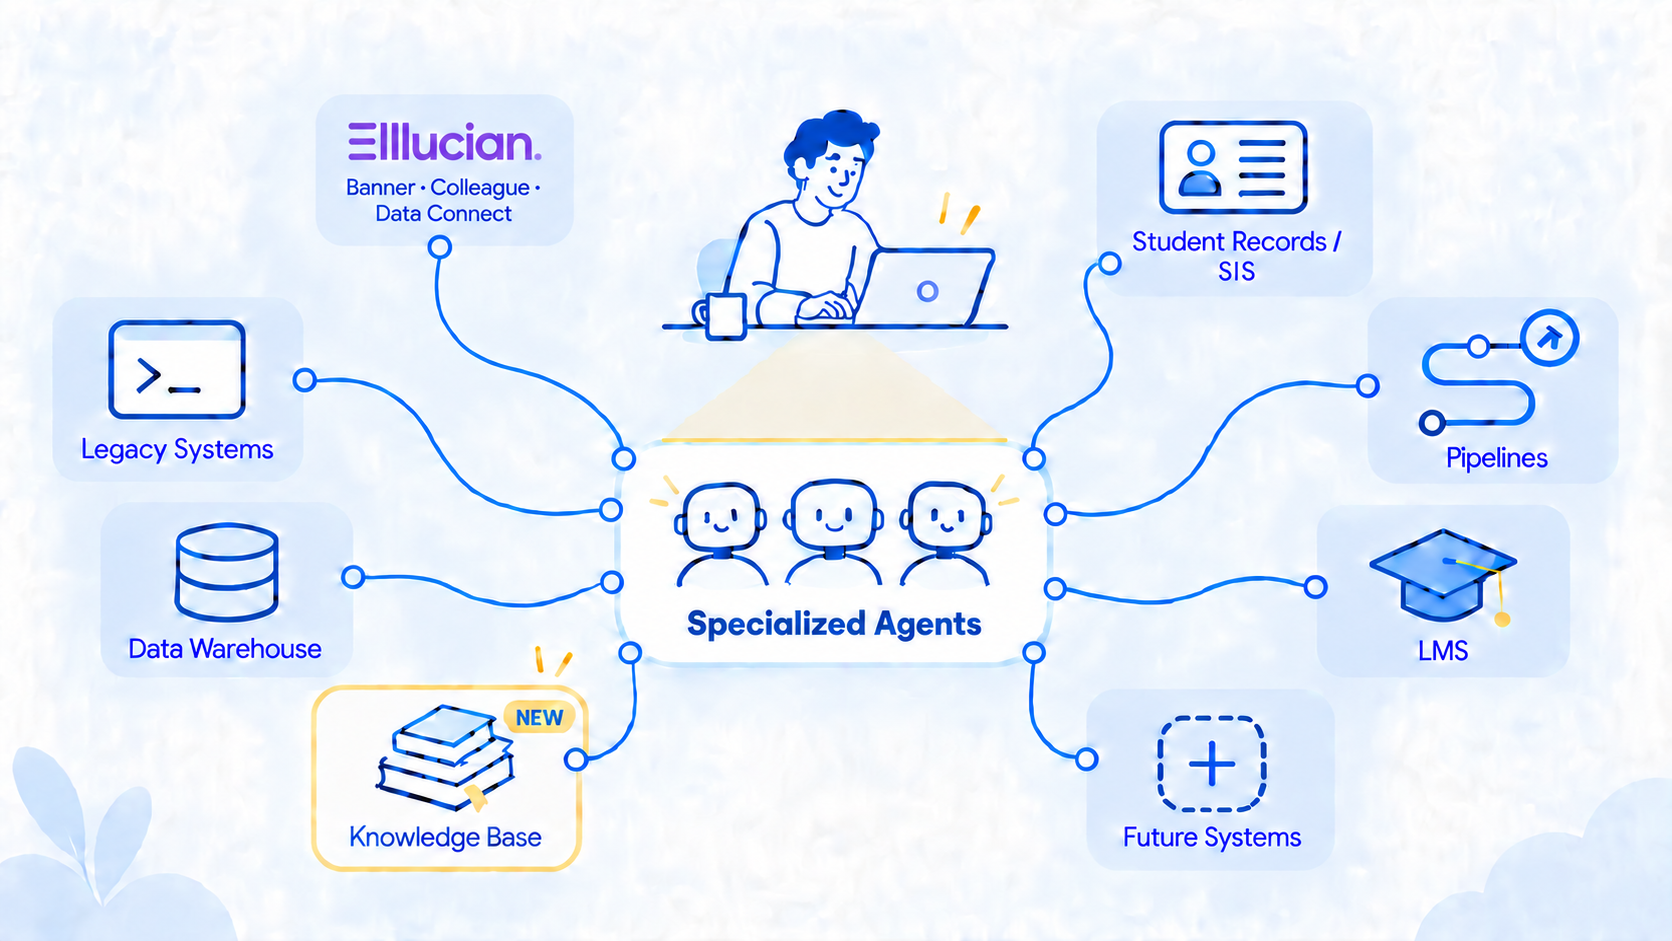
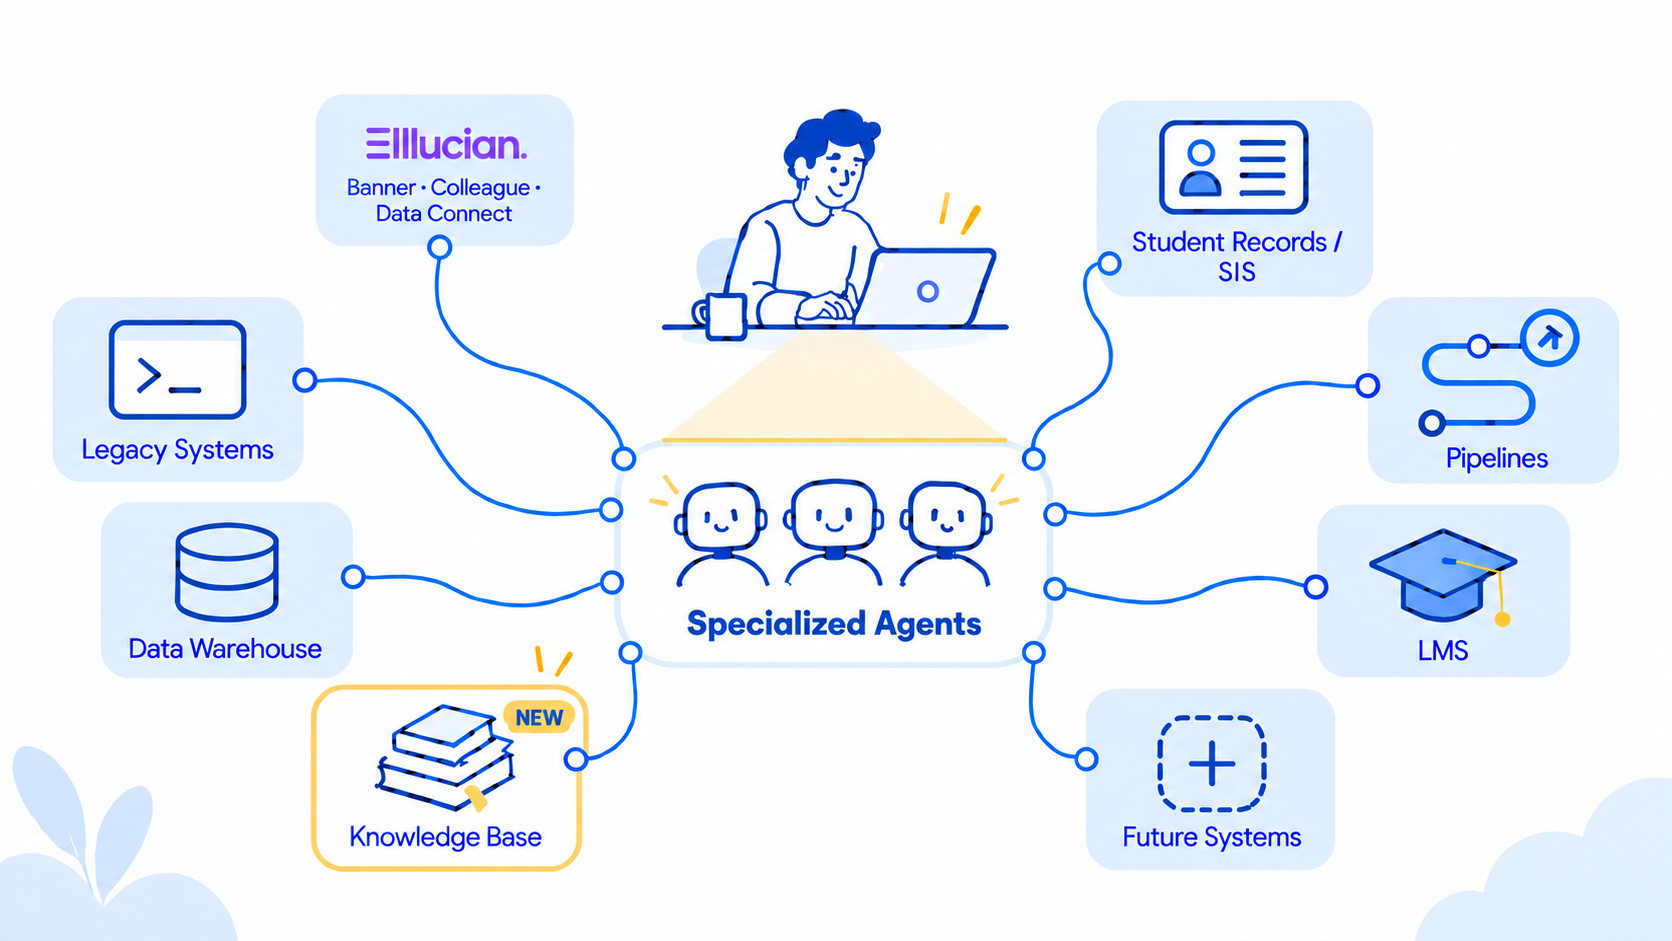
Polish hero and proof experience

diff --git a/src/data/site.ts b/src/data/site.ts
@@ -30,7 +30,7 @@ export const hero = {
 
 export const proof = {
   eyebrow: 'Proof',
-  headline: 'Battle-tested by our own delivery team.',
+  headline: 'We built the tool our delivery team needed.',
   lead:
     'We built Akaden to help our own delivery team do better integration work faster, more consistently, and with knowledge the whole team could use. ' +
     'After seeing how much it improved real Ellucian projects, we decided to share it with other teams facing the same challenges.',
